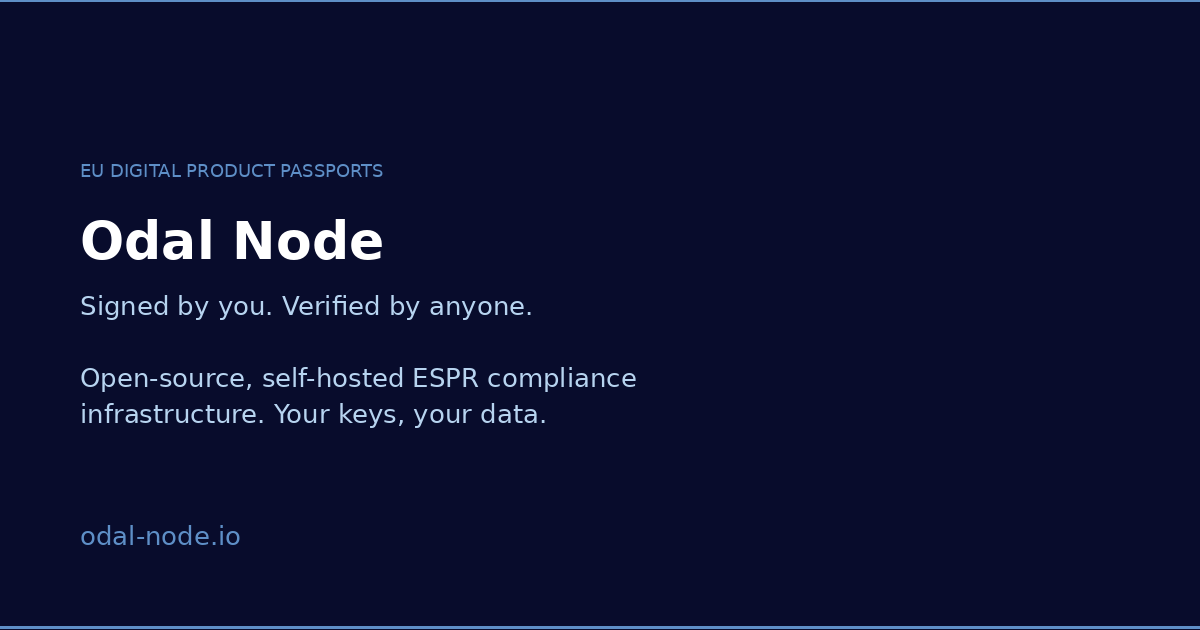
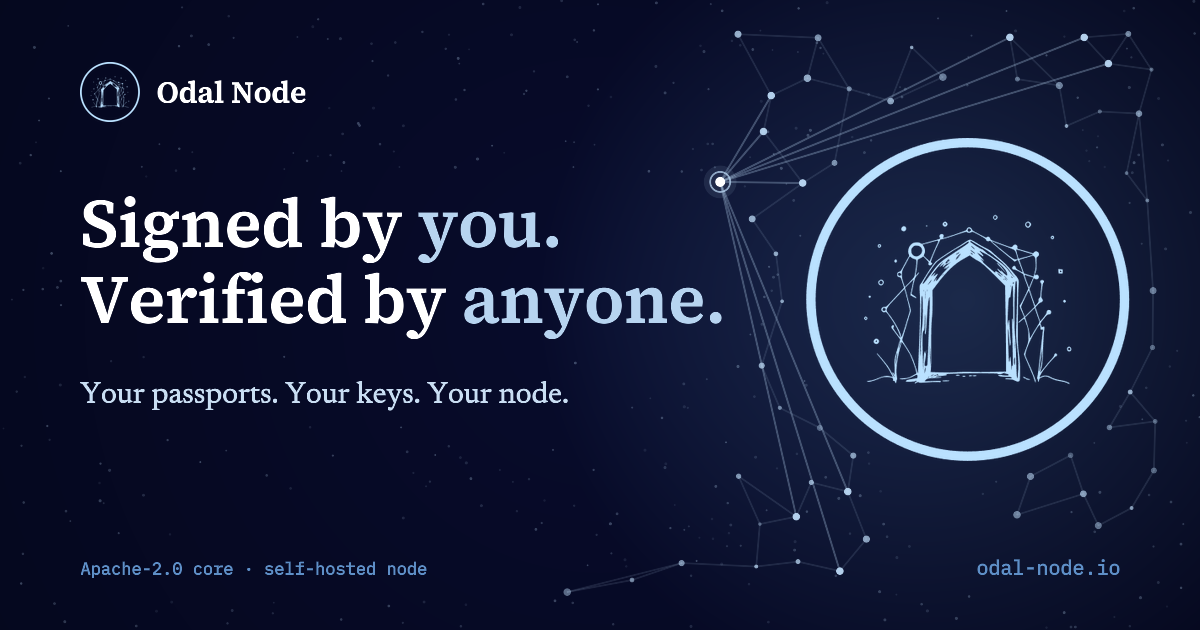
fix(landing,docs): redraw the site-wide share image (#52)
* fix(landing,docs): redraw the share image

* fix(landing,docs): use the final share card

* fix(landing,docs): update the share card

diff --git a/site/dpp-landing/src/lib/share-cards.ts b/site/dpp-landing/src/lib/share-cards.ts
@@ -75,6 +75,6 @@ const byPath = new Map(cards.map((c) => [c.path, c]));
 export function shareImageFor(pathname: string): { src: string; alt: string } {
   const path = pathname.replace(/\/$/, "") || "/";
   const card = byPath.get(path);
-  if (!card) return { src: "/og-image.png", alt: "Odal Node: Signed by you. Verified by anyone." };
+  if (!card) return { src: "/og-image.png", alt: "Odal Node: Signed by you. Verified by anyone. Your passports. Your keys. Your node." };
   return { src: `/og${card.path}.png`, alt: `${card.eyebrow}: ${card.title}` };
 }
